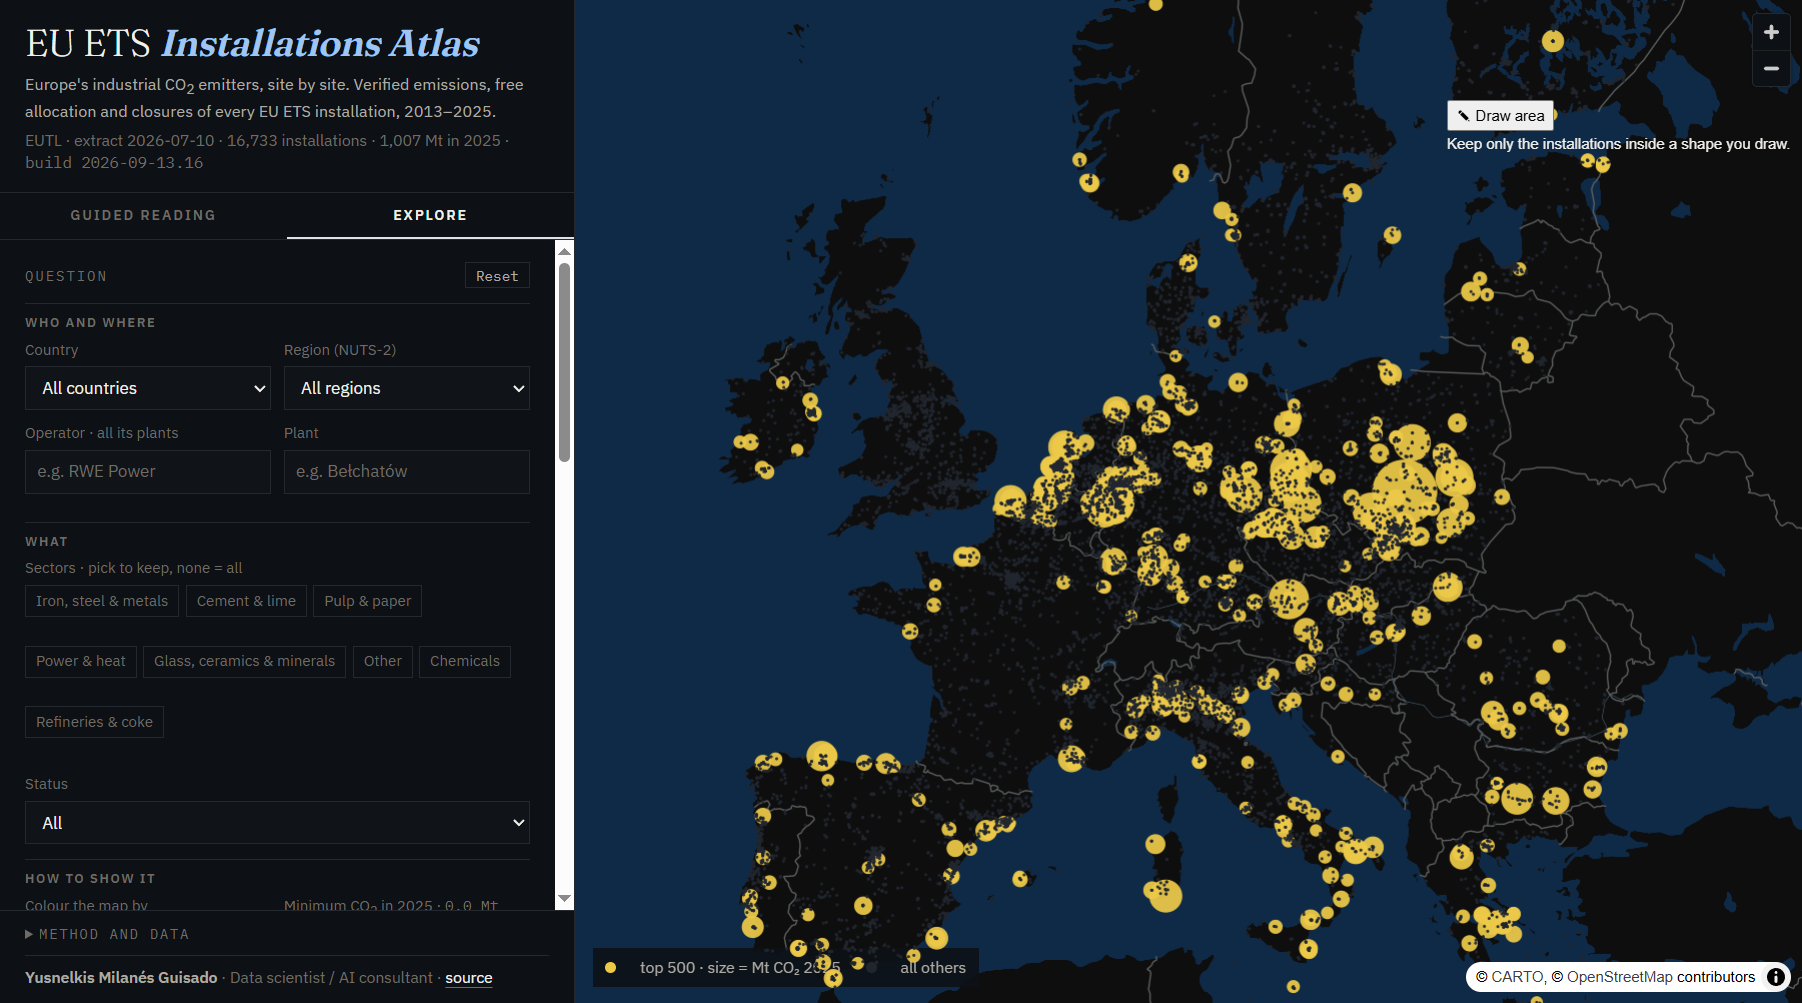
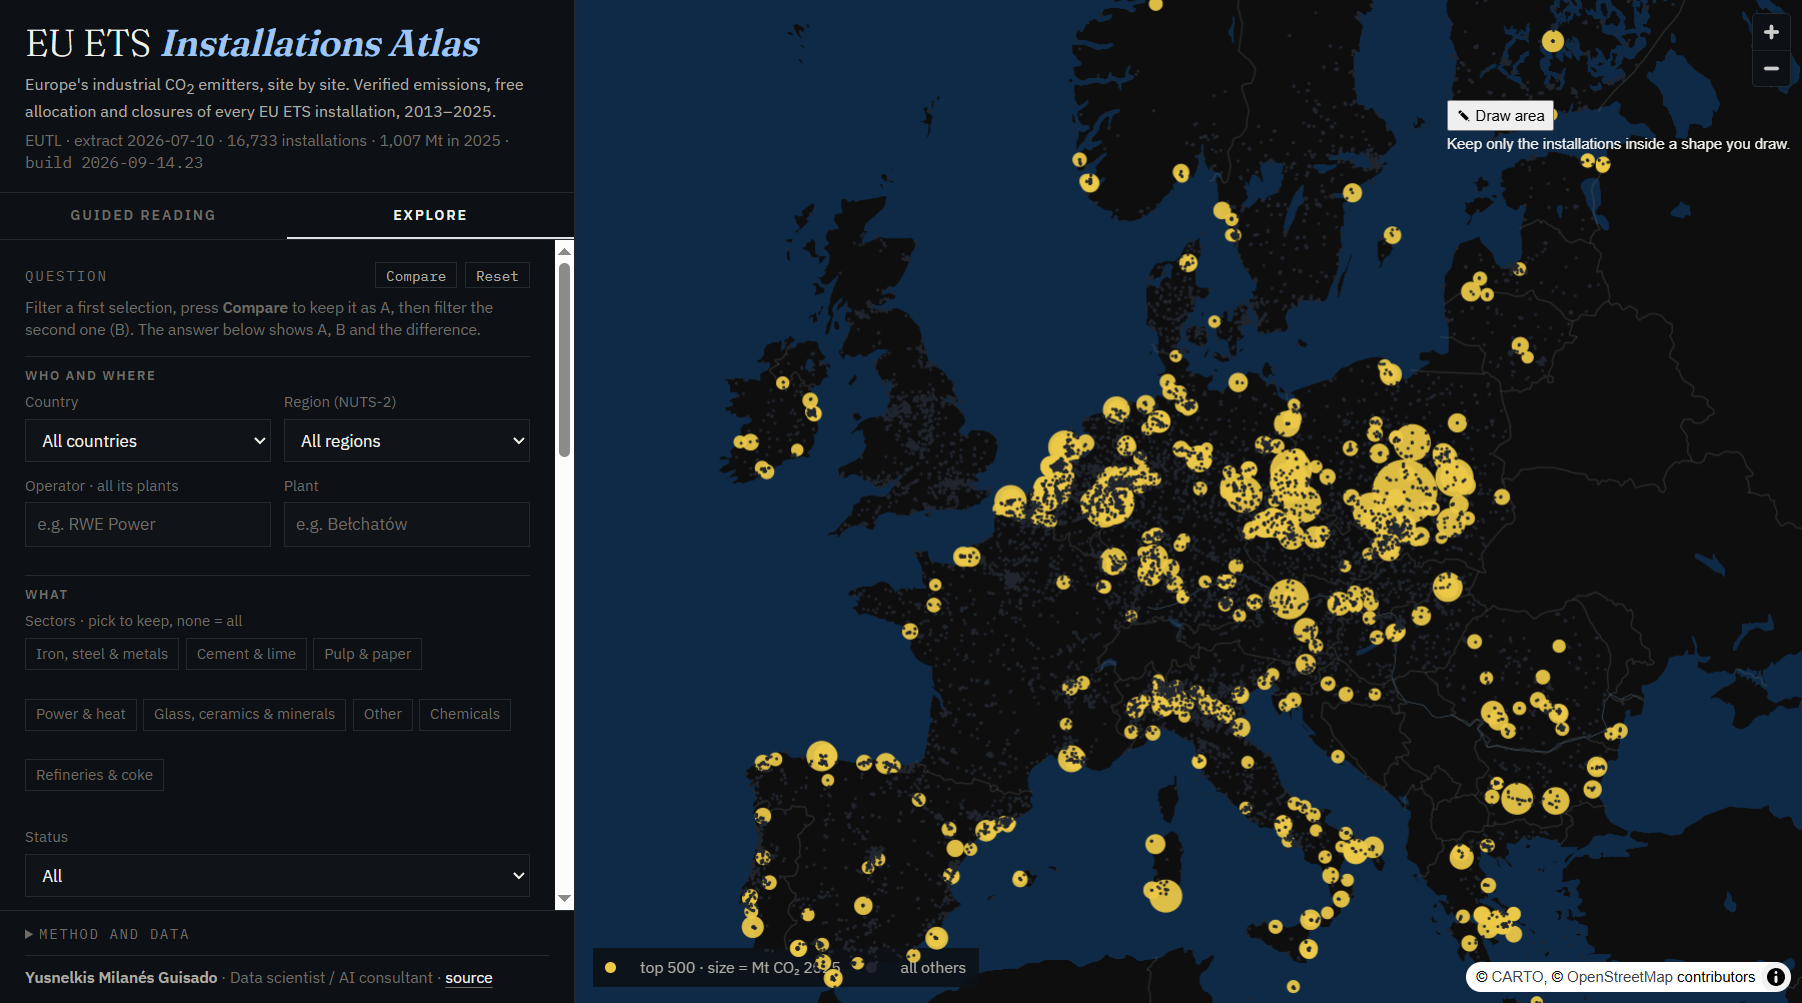
release(atlas): v1.0 closed; screenshot of the final build, year selector parked in README and CLAUDE.md

diff --git a/CLAUDE.md b/CLAUDE.md
@@ -21,6 +21,8 @@ workspace and never writes there.
 - `code/build_site_data.py` → `docs/data/installations.csv` (tonne precision, never rounded before display) +
   `docs/data/summary.json`; `docs/index.html` is the published page (GitHub Pages, `main:/docs`).
 - Scope rule (2026-09-13): plants and operators of record only. No companies, groups, GUO or GLEIF: that is GEODEP.
+- v1.0 closed 2026-09-14. Parked, code kept in `docs/index.html`: the year selector (`applyYear`, hidden `#f-year`, `y=` in the hash
+  ignored) — reopen only as a timeline under the answer with per-year status. Next candidates: hex hotspots (~20 km), NUTS-3.
 - `docker/compose.yml` → Dekart on `localhost:8080` (state in `docker/dekart-data/`, gitignored).
 - `sql/` → the DuckDB queries that GeoSQL produced for the map. `maps/` → exported map config / screenshots.
 - CLIs live in the venv: `../_venvs/ets_map/Scripts/{dekart,geosql}.exe`. In shell calls prepend that

diff --git a/README.md b/README.md
@@ -80,7 +80,7 @@ Stack: DuckDB (all transformations, SQL in `sql/`), MapLibre GL + deck.gl (map),
 - The data are a snapshot (EUTL extract of 2026-07-10); an update means re-running the three scripts.
 - Regional context stops at NUTS-2; NUTS-3 and Just Transition Fund territories would be the next level.
 - Free allocation is shown as totals; product benchmarks and the yearly allocation schedule are not modelled.
-- Figures are for 2025; a year selector (2013–2025) is built but parked until it is reviewed.
+- Figures are for 2025. A year selector is built but parked: to ship it, status must be computed per year, the baseline and allocation rows shown only where they exist, and the control designed as a timeline under the answer rather than a dropdown.
 - Planned: hotspot aggregation (hexagons of ~20 km) to read industrial clusters as systems.
 
 ## Credits and licence
